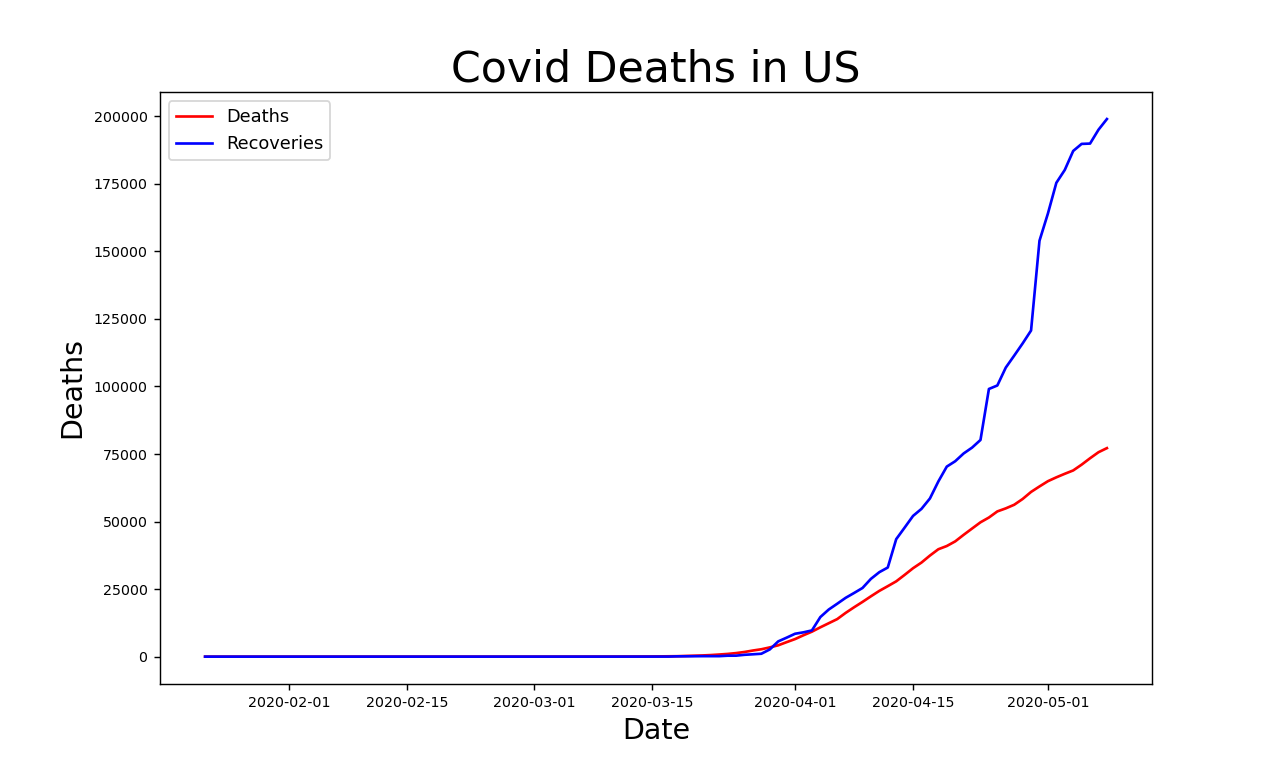
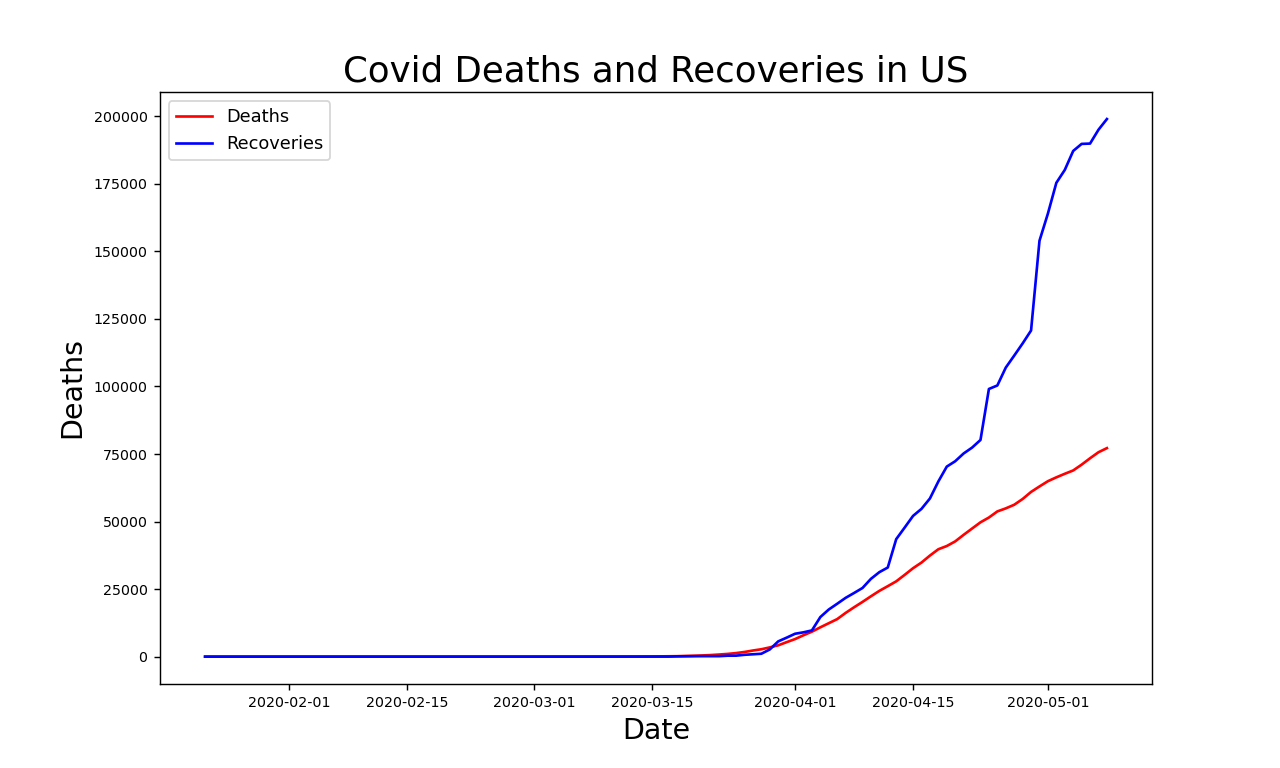
Retitled graph to say deaths and recoveries as opposed to just deaths.

Changed region(s): [[0.2812, 0.0625, 0.75, 0.125]]

diff --git a/covid_deaths_recovery.py b/covid_deaths_recovery.py
@@ -45,7 +45,7 @@ plt.plot(dates, deaths, c='red', label="Deaths")
 plt.plot(dates, recover, c='blue', label="Recoveries")
 
 # Format plot.
-plt.title("Covid Deaths in US", fontsize=24)
+plt.title("Covid Deaths and Recoveries in US", fontsize=20)
 plt.xlabel("Date", fontsize=16)
 plt.ylabel("Deaths", fontsize=16)
 plt.tick_params(axis="both", which="major", labelsize=8)
